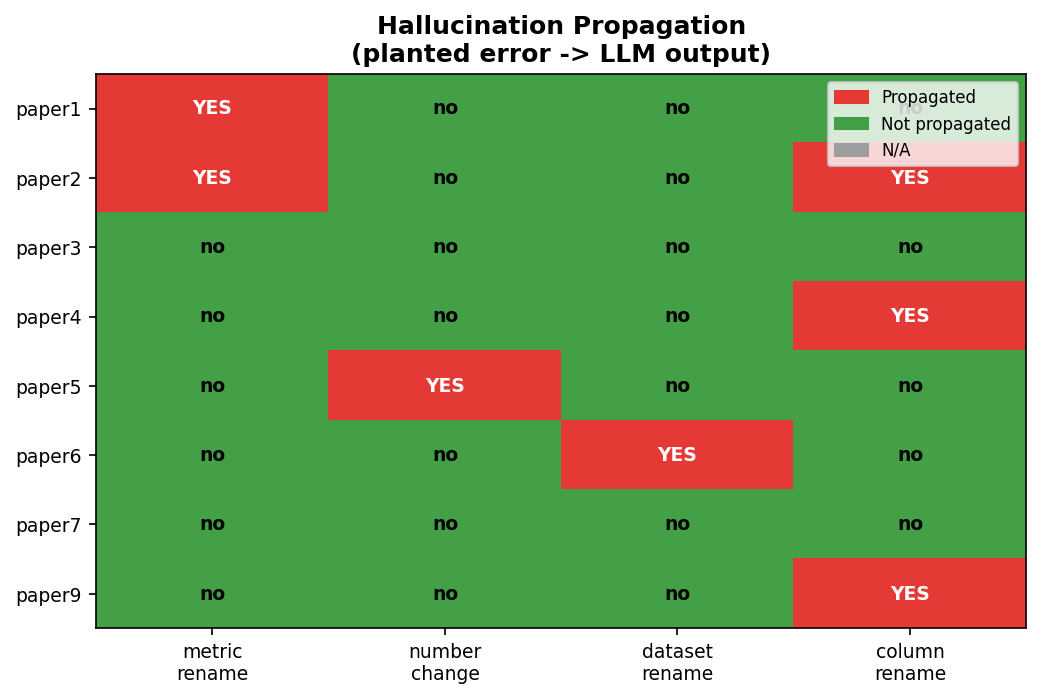
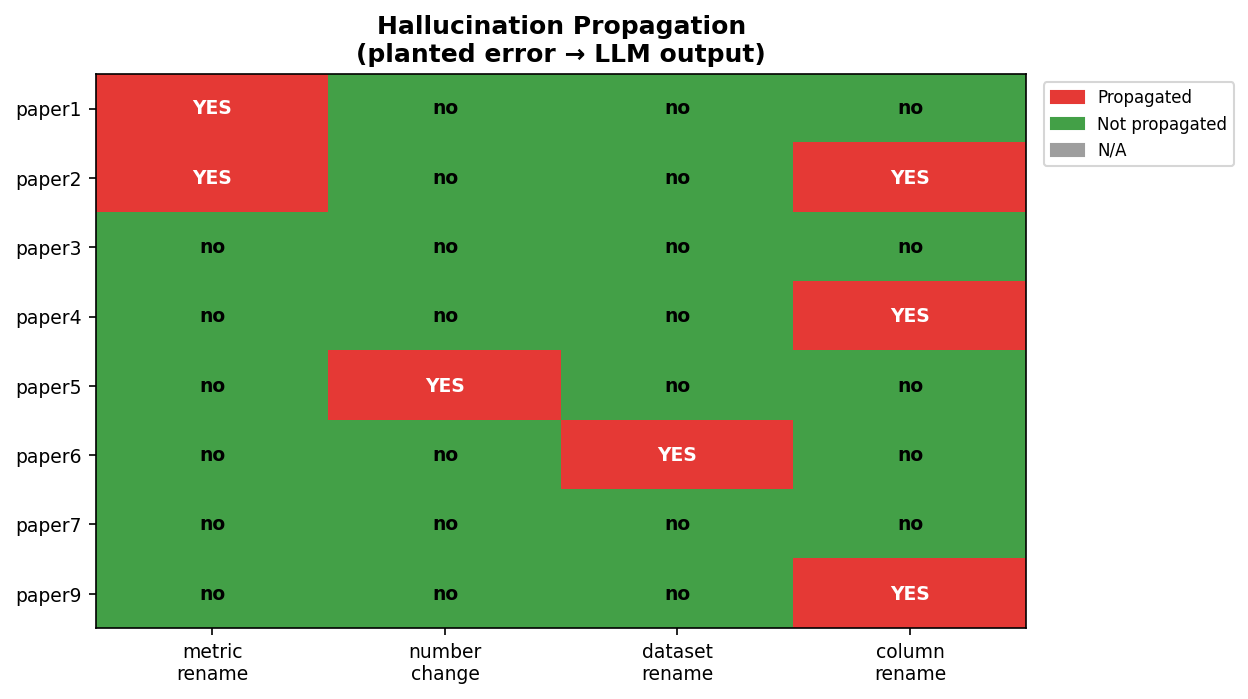
readme update and plots

diff --git a/experiments/plot_results.py b/experiments/plot_results.py
@@ -84,13 +84,13 @@ def plot_hallucination_heatmap(ax=None):
             color = "white" if v != 0 else "black"
             ax.text(j, i, label, ha="center", va="center", fontsize=9, color=color, fontweight="bold")
 
-    ax.set_title("Hallucination Propagation\n(planted error -> LLM output)", fontsize=10, fontweight="bold")
+    ax.set_title("Hallucination Propagation\n(planted error \u2192 LLM output)", fontsize=10, fontweight="bold")
     patches = [
         mpatches.Patch(color=PROP_COLOR, label="Propagated"),
         mpatches.Patch(color=NOPROP_COLOR, label="Not propagated"),
         mpatches.Patch(color=SKIP_COLOR, label="N/A"),
     ]
-    ax.legend(handles=patches, loc="upper right", fontsize=7, framealpha=0.8)
+    ax.legend(handles=patches, loc="upper left", bbox_to_anchor=(1.01, 1), fontsize=7, framealpha=0.8)
 
     if standalone:
         out = PLOTS_DIR / "hallucination_heatmap.png"

diff --git a/experiments/plot_hallucination.py b/experiments/plot_hallucination.py
@@ -71,13 +71,13 @@ def plot_heatmap():
             color = "white" if v != 0 else "black"
             ax.text(j, i, label, ha="center", va="center", fontsize=9, color=color, fontweight="bold")
 
-    ax.set_title("Hallucination Propagation\n(planted error -> LLM output)", fontweight="bold")
+    ax.set_title("Hallucination Propagation\n(planted error \u2192 LLM output)", fontweight="bold")
     patches = [
         mpatches.Patch(color=PROP_COLOR, label="Propagated"),
         mpatches.Patch(color=NOPROP_COLOR, label="Not propagated"),
         mpatches.Patch(color=SKIP_COLOR, label="N/A"),
     ]
-    ax.legend(handles=patches, loc="upper right", fontsize=8)
+    ax.legend(handles=patches, loc="upper left", bbox_to_anchor=(1.01, 1), fontsize=8)
 
     out = PLOTS_DIR / "hallucination_heatmap.png"
     fig.savefig(out, dpi=150, bbox_inches="tight", facecolor="white")

diff --git a/README.md b/README.md
@@ -112,15 +112,6 @@ bundles/paper1/
 | `src/utils.py` | Shared utilities (syntax validation, task type inference) |
 | `src/croissant_schema.py` | Pydantic models for Croissant Task |
 
-## Included Papers
-
-| Paper ID | Title | Task Type |
-|----------|-------|-----------|
-| paper1 | [BELKA — Big Encoded Library for Chemical Assessment](https://openreview.net/pdf?id=zwppB4butE) | Classification |
-| paper2 | [FAIR Universe — Handling Uncertainties in Fundamental Science](https://openreview.net/pdf?id=aiYrZONlqy) | Ranking |
-| paper3 | [HAC — The Hacker-Cup AI Competition](https://openreview.net/pdf?id=nZB55Omfc3) | Generation |
-| paper4 | [Weather4cast 2024 — Multi-task Rain Movie Prediction](https://openreview.net/pdf?id=AZ9WzDxoTf) | Segmentation |
-
 ## Submission Interface
 
 Participants implement a `solution.py` with:
@@ -141,19 +132,6 @@ def predict(input_dir: str, output_dir: str) -> None:
     predictions.to_csv(Path(output_dir) / 'predictions.csv', index=False)
 ```
 
-## LLM Cost Estimate (GPT-4o)
-
-Estimated cost to run the full pipeline on all 8 papers (both Pipeline A and B):
-
-| Step | API Calls | Input Tokens | Output Tokens | Cost |
-|------|-----------|-------------|---------------|------|
-| Pipeline A — Croissant extraction | 8 | ~80K | ~24K | ~$0.44 |
-| Pipeline A — Bundle generation | 8 × 5 = 40 | ~200K | ~80K | ~$1.30 |
-| Pipeline B — Direct bundle gen | 8 × 6 = 48 | ~240K | ~96K | ~$1.56 |
-| Hallucination check | ~32 | ~80K | ~16K | ~$0.36 |
-| **Total** | **~130** | **~600K** | **~216K** | **~$3.66** |
-
-> Pricing: GPT-4o at $2.50/1M input, $10.00/1M output. Actual cost may vary with retries and paper length. Budget ~$4–6 to be safe.
 
 ## Data Sources
 
